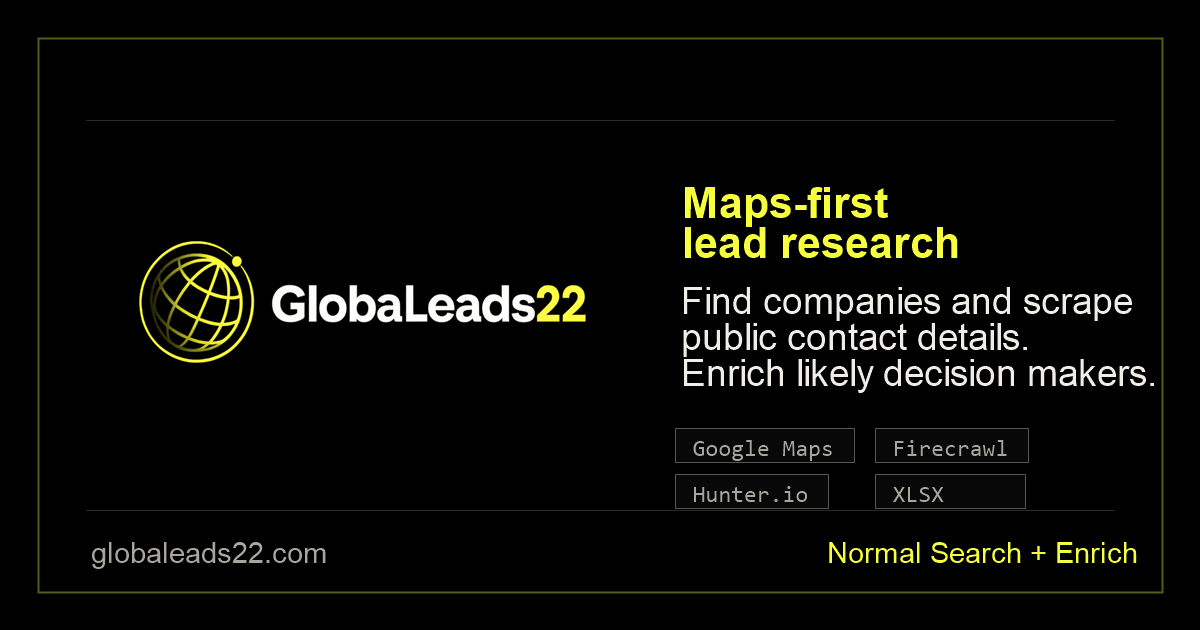
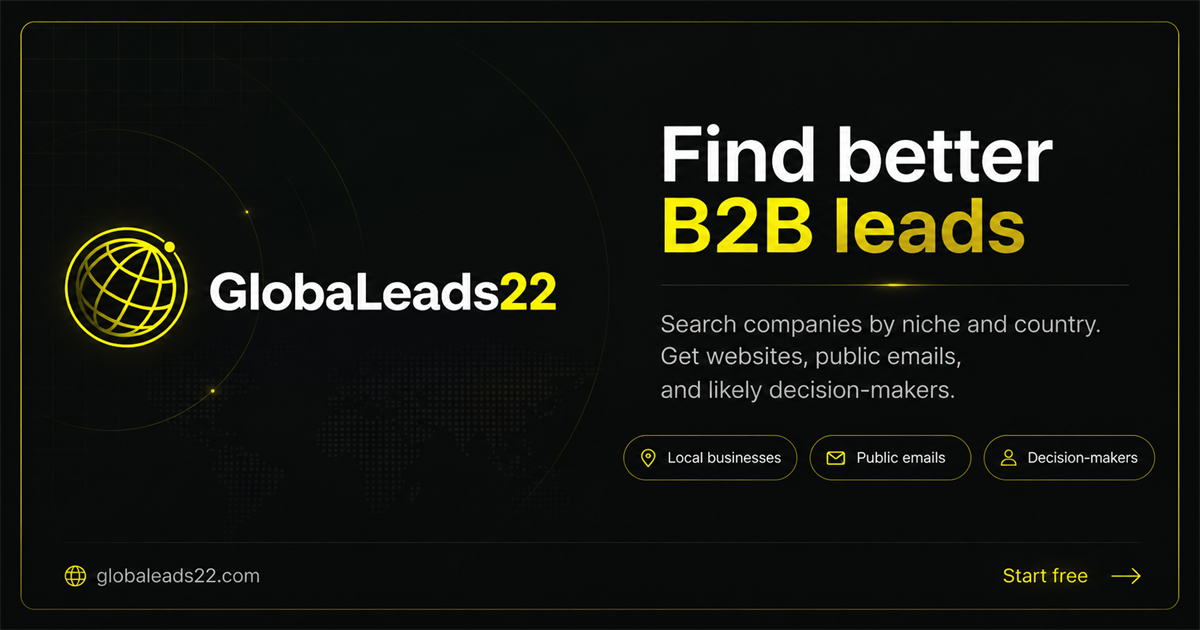
Replace social preview artwork

diff --git a/index.html b/index.html
@@ -4,16 +4,16 @@
 <head>
   <meta charset="UTF-8" />
   <meta name="viewport" content="width=device-width, initial-scale=1.0" />
-  <title>GlobaLeads22 - Maps-First Lead Research</title>
+  <title>GlobaLeads22 - Find Better Business Leads</title>
   <meta name="description"
-    content="Find businesses from Google Maps, scrape public website contact details, and enrich likely decision makers with optional Hunter.io contacts." />
+    content="Search by niche and country to find businesses, websites, public emails, and likely decision makers." />
   <meta name="keywords"
     content="lead generation, Google Maps leads, B2B leads, local business leads, outreach tool, decision maker enrichment" />
   <meta name="author" content="GlobaLeads22" />
 
-  <meta property="og:title" content="GlobaLeads22 - Maps-First Lead Research" />
+  <meta property="og:title" content="GlobaLeads22 - Find Better Business Leads" />
   <meta property="og:description"
-    content="Find businesses from Google Maps, scrape public website contact details, and enrich likely decision makers." />
+    content="Search by niche and country to find businesses, websites, public emails, and likely decision makers." />
   <meta property="og:type" content="website" />
   <meta property="og:url" content="https://globaleads22.com" />
   <meta property="og:site_name" content="GlobaLeads22" />
@@ -25,9 +25,9 @@
   <meta property="og:image:alt" content="GlobaLeads22 Maps-first lead research preview" />
 
   <meta name="twitter:card" content="summary_large_image" />
-  <meta name="twitter:title" content="GlobaLeads22 - Maps-First Lead Research" />
+  <meta name="twitter:title" content="GlobaLeads22 - Find Better Business Leads" />
   <meta name="twitter:description"
-    content="Find businesses from Google Maps, scrape public website contact details, and enrich likely decision makers." />
+    content="Search by niche and country to find businesses, websites, public emails, and likely decision makers." />
   <meta name="twitter:image" content="https://globaleads22.com/og-image.png" />
   <meta name="twitter:image:alt" content="GlobaLeads22 Maps-first lead research preview" />
 
